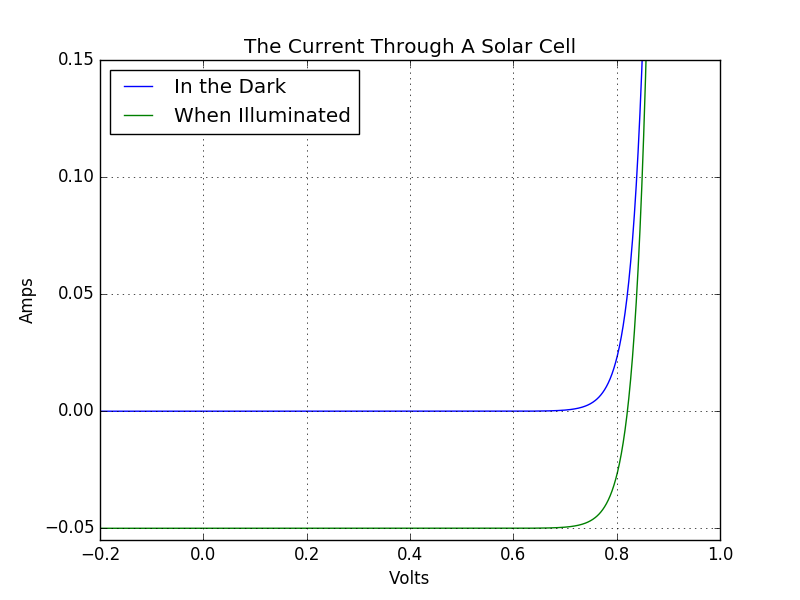
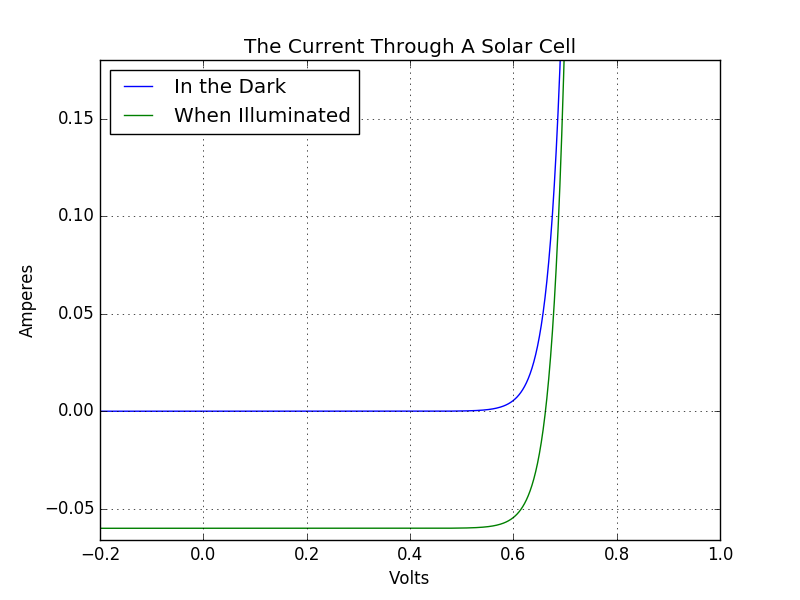
tweak to absorption added python .gitignore

diff --git a/sq.py b/sq.py
@@ -17,8 +17,6 @@ q = 1.60217657e-19 #electron charge
 h = 6.62607004081e-34 #planck constant
 c = 299792458 #speed of light
 
-
-#E_min = 3.9733979e-20 #lower bound for energy calculation (=0.1 micron wavelength electromagnetic radiation) [J]
 E_min = 0
 E_max = 1.98637857e-18 #highest energy for absorption (=5 micron wavelength electromagnetic radiation) [J]
 
@@ -26,9 +24,11 @@ E_max = 1.98637857e-18 #highest energy for absorption (=5 micron wavelength elec
 # must return values for inputs on [E_min E_max] joules
 def a(E):
   #TODO: insert a real absorption spectrum here
-  SiBG = 1.14*q # let's assume absorption of 1 below Si's bandgap for now
-  value = SiBG - E_min
-  return value
+  if E > 1.14*q: # let's assume absorption of 1 for photons above Si's bandgap 
+    return 1
+  else:
+    return 0
+
 
 # takes energy in joules and returns emitted photon flux of a black body of temperature T
 def psi_bb(E,T):
@@ -80,7 +80,7 @@ print("")
 print("and")
 print("")
 
-I_ph = 50e-3 #photocurrent [A]
+I_ph = 60e-3 #photocurrent [A]
 Voc = openCircuitVoltage(I0, T_cell, I_ph)
 print("If the photocurrent is", I_ph, "amperes, then")
 print("the maximum open circuit voltage is", Voc, "volts.")

diff --git a/README.md b/README.md
@@ -7,11 +7,11 @@ $ git clone https://github.com/AFMD/shockley-queisser-calcs.git
 $ cd shockley-queisser-calcs
 $ python sq.py
 The radiative saturation current of our solar cell
-is 1.0210416322589196e-15 amperes.
+is 5.41954633591076e-13 amperes.
 
 and
 
-If the photocurrent is 0.05 amperes, then
-the maximum open circuit voltage is 0.820752565323 volts.
+If the photocurrent is 0.06 amperes, then
+the maximum open circuit voltage is 0.662132543746 volts.
 ```
 ![Some Graph](/figure_1.png)
